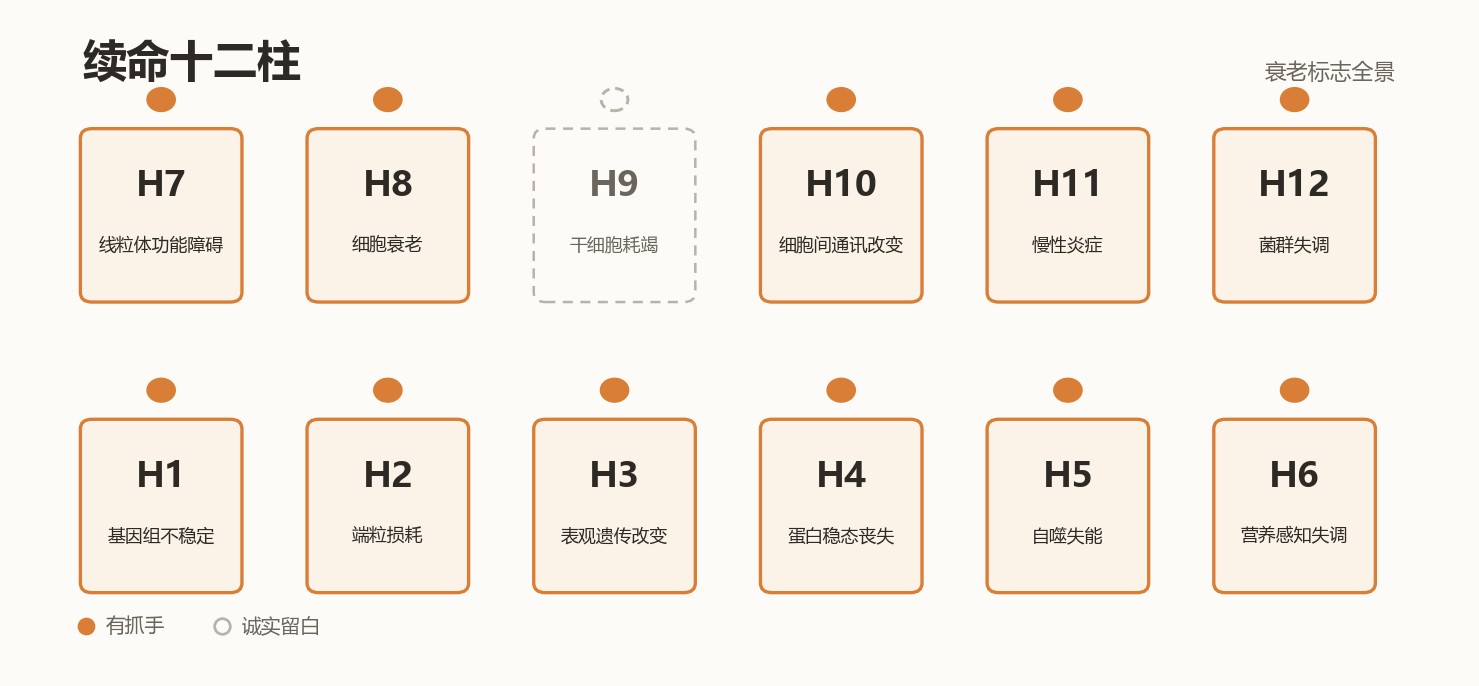
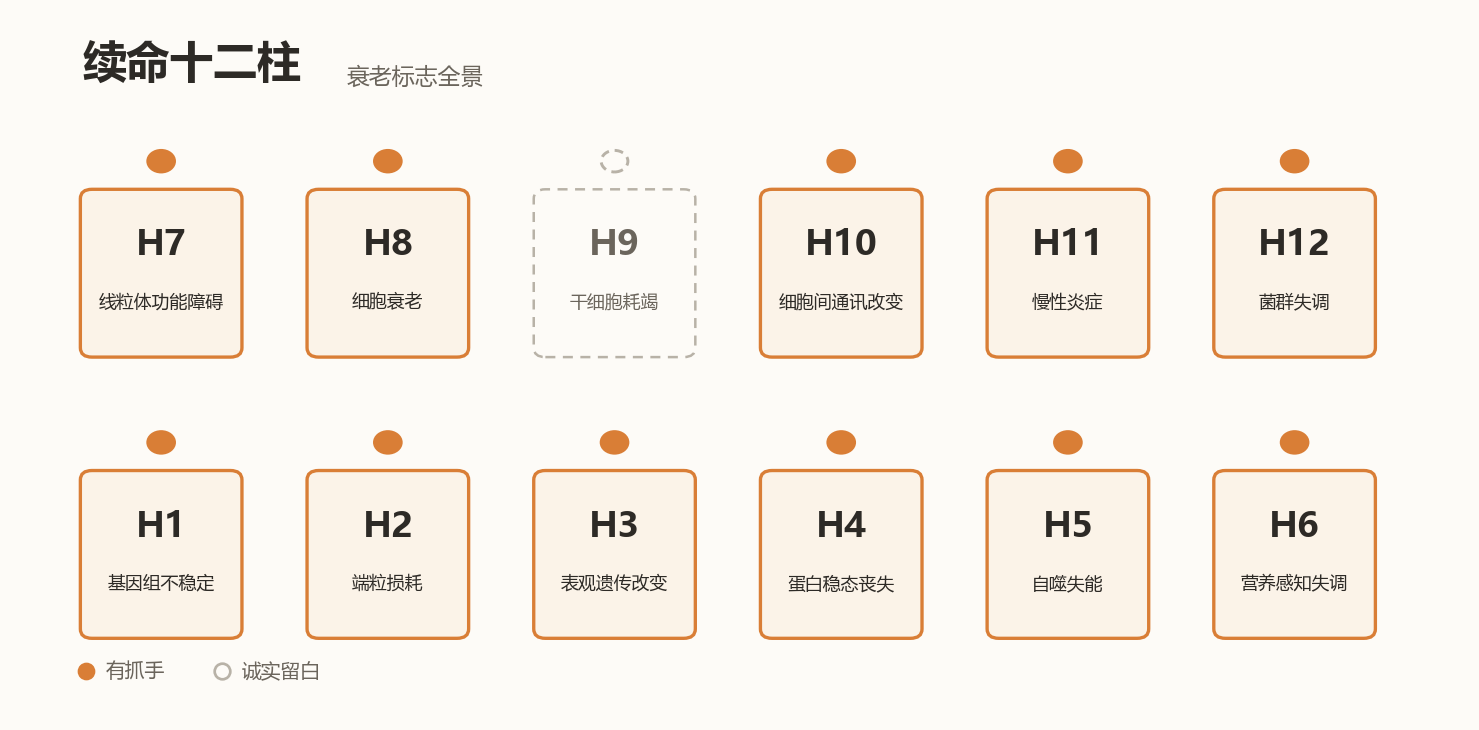
Figure fix: pillar-chart title overlap resolved

diff --git a/scripts/figs_v1.py b/scripts/figs_v1.py
@@ -23,8 +23,8 @@ os.makedirs(OUT, exist_ok=True)
 
 # ── 图 1：续命十二柱全景 ──
 def fig_pillars():
-    fig, ax = plt.subplots(figsize=(12, 5.2))
-    ax.set_xlim(0, 12); ax.set_ylim(0, 6.2); ax.axis("off")
+    fig, ax = plt.subplots(figsize=(12, 5.6))
+    ax.set_xlim(0, 12); ax.set_ylim(0, 6.9); ax.axis("off")
     pillars = [
         ("H1", "基因组不稳定", True), ("H2", "端粒损耗", True), ("H3", "表观遗传改变", True),
         ("H4", "蛋白稳态丧失", True), ("H5", "自噬失能", True), ("H6", "营养感知失调", True),
@@ -51,8 +51,8 @@ def fig_pillars():
                 fontsize=17, fontweight="bold", color=INK if has else SUB)
         ax.text(x + 0.675, 1.12 + row * 3.0, name, ha="center", va="center",
                 fontsize=8.6, color=INK if has else SUB)
-    ax.text(0.35, 5.86, "续命十二柱", fontsize=21, fontweight="bold", color=INK)
-    ax.text(11.65, 5.90, "衰老标志全景", fontsize=10.5, color=SUB, ha="right", va="center")
+    ax.text(0.35, 6.52, "续命十二柱", fontsize=21, fontweight="bold", color=INK)
+    ax.text(2.62, 6.52, "衰老标志全景", fontsize=11, color=SUB, va="center")
     # 状态图例（一行，仅两种 key）
     ax.plot([0.38], [0.185], marker="o", ms=7.5, color=AMBER)
     ax.text(0.55, 0.185, "有抓手", fontsize=9.5, color=SUB, va="center")
